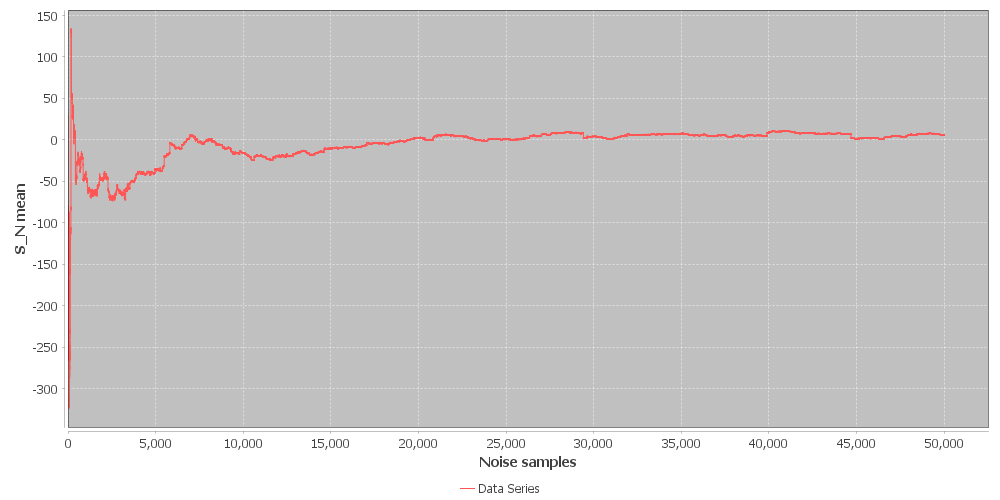
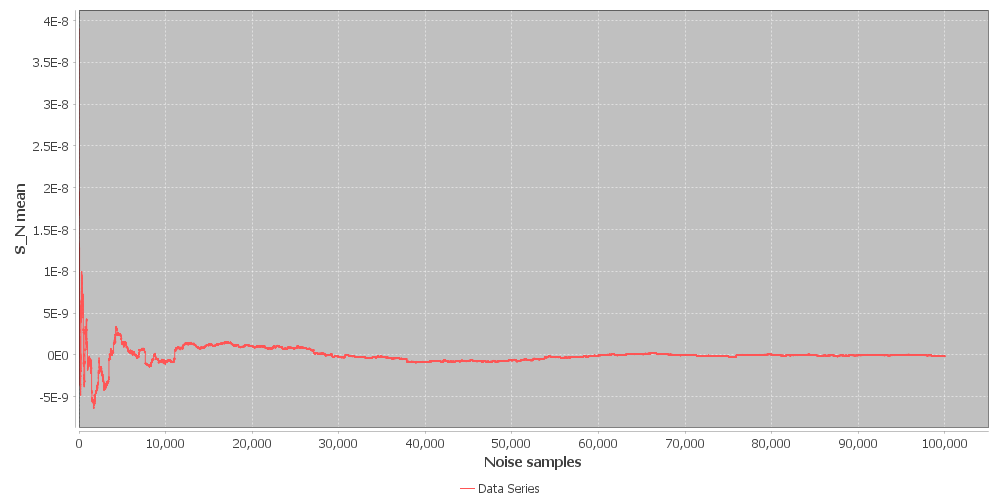
runtime issue, no stopping criterion

diff --git a/NBLSolver.java b/NBLSolver.java
@@ -3,7 +3,7 @@ import java.io.File;
 import java.io.FileReader;
 import java.io.IOException;
 import java.math.BigDecimal;
-import java.math.MathContext;
+import java.math.RoundingMode;
 import java.util.ArrayList;
 import java.util.HashMap;
 import java.util.List;
@@ -13,7 +13,7 @@ public class NBLSolver {
    private int numVariables;
    private int numClauses;
    private List<Clause> instanceSAT;
-   private HashMap<Integer, List<Double>> noisesByClause;
+   private HashMap<Integer, List<BigDecimal>> noisesByClause;
    private Random random;
    private String fileName;
 
@@ -55,8 +55,8 @@ public class NBLSolver {
 
    //-- NOISE SOURCE --
 
-   private double noiseSource() {
-      return (random.nextDouble() * 1 - 0.5);
+   private BigDecimal noiseSource() {
+      return new BigDecimal(random.nextDouble() * 1 - 0.5);
    }
 
    //-- TAU --
@@ -69,10 +69,10 @@ public class NBLSolver {
          BigDecimal product2 = BigDecimal.ONE;
          for (int j = 1; j <= numClauses; j++) {
             // Generate noise source for 2 literals of variable x in clause c
-            double positive = noiseSource();
-            double negative = noiseSource();
+            BigDecimal positive = noiseSource();
+            BigDecimal negative = noiseSource();
             // Group the noise source by clause index
-            List<Double> tempList1 = noisesByClause.get(j);
+            List<BigDecimal> tempList1 = noisesByClause.get(j);
             if (tempList1 == null) {
                tempList1 = new ArrayList<>();
                noisesByClause.put(j, tempList1);
@@ -80,8 +80,8 @@ public class NBLSolver {
             tempList1.add(positive);
             tempList1.add(negative);
             
-            product1 = product1.multiply(BigDecimal.valueOf(positive));
-            product2 = product2.multiply(BigDecimal.valueOf(negative));
+            product1 = product1.multiply(positive);
+            product2 = product2.multiply(negative);
          }
          result = result.multiply(product1.add(product2));
       }
@@ -103,24 +103,23 @@ public class NBLSolver {
    }
 
    private BigDecimal cube(int clause, int literal) {
-      List<Double> tempList = noisesByClause.get(clause);
+      List<BigDecimal> tempList = noisesByClause.get(clause);
       BigDecimal result = BigDecimal.ONE;
       // Noise sources of each clause are listed by the order:
       // [x1, -x1, x2, -x2, ...]
       for (int i = 0; i < numVariables; i++) {
          if (literal < 0 && i + 1 == Math.abs(literal)) {
-            double noise = tempList.get(i * 2 + 1);
-            result = result.multiply(BigDecimal.valueOf(noise));
+            BigDecimal noise = tempList.get(i * 2 + 1);
+            result = result.multiply(noise);
             continue;
          } else if (literal > 0 && i + 1 == literal) {
-            double noise = tempList.get(i * 2);
-            result = result.multiply(BigDecimal.valueOf(noise));
+            BigDecimal noise = tempList.get(i * 2);
+            result = result.multiply(noise);
             continue;
          }
-         double positive = tempList.get(i * 2);
-         double negative = tempList.get(i * 2 + 1);
-         double sum = positive + negative;
-         result = result.multiply(BigDecimal.valueOf(sum));
+         BigDecimal positive = tempList.get(i * 2);
+         BigDecimal negative = tempList.get(i * 2 + 1);
+         result = result.multiply(positive.add(negative));
       }
       return result;
    }
@@ -140,30 +139,12 @@ public class NBLSolver {
          BigDecimal tau = constructHyperspace();
          BigDecimal sigma = constructInstanceNBL();
          S_N = S_N.add(tau.multiply(sigma));
+         BigDecimal sample = new BigDecimal(i);
+         BigDecimal mean = S_N.divide(sample, RoundingMode.HALF_UP);
          if (i % step == 0) {
-            BigDecimal sample = new BigDecimal(i);
-            BigDecimal mean = S_N.divide(sample, MathContext.DECIMAL128);
             meanList.add(mean);
          }
       }
-
-      // int numMean = meanList.size();
-
-      // BigDecimal sum = BigDecimal.ZERO;
-      // for (int i = 0; i < numMean; i++) {
-      //    sum = sum.add(meanList.get(i));
-      // }
-      // BigDecimal total_mean = sum.divide(new BigDecimal(numMean), MathContext.DECIMAL128);
-
-      // Scale up all the mean value to draw the line chart
-      // int numDigits = total_mean.precision();
-      // int numTrailingZeros = total_mean.scale();
-      // int numLeadingDigits = numTrailingZeros - numDigits + 1;
-      // System.out.println(numLeadingDigits);
-      // for (int i = 0; i < numMean; i++) {
-      //    BigDecimal mean = meanList.get(i);
-      //    meanList.set(i, mean.multiply(BigDecimal.TEN.pow(numLeadingDigits)));
-      // }
 
       new Chart(meanList, fileName);
       return satifiability;
